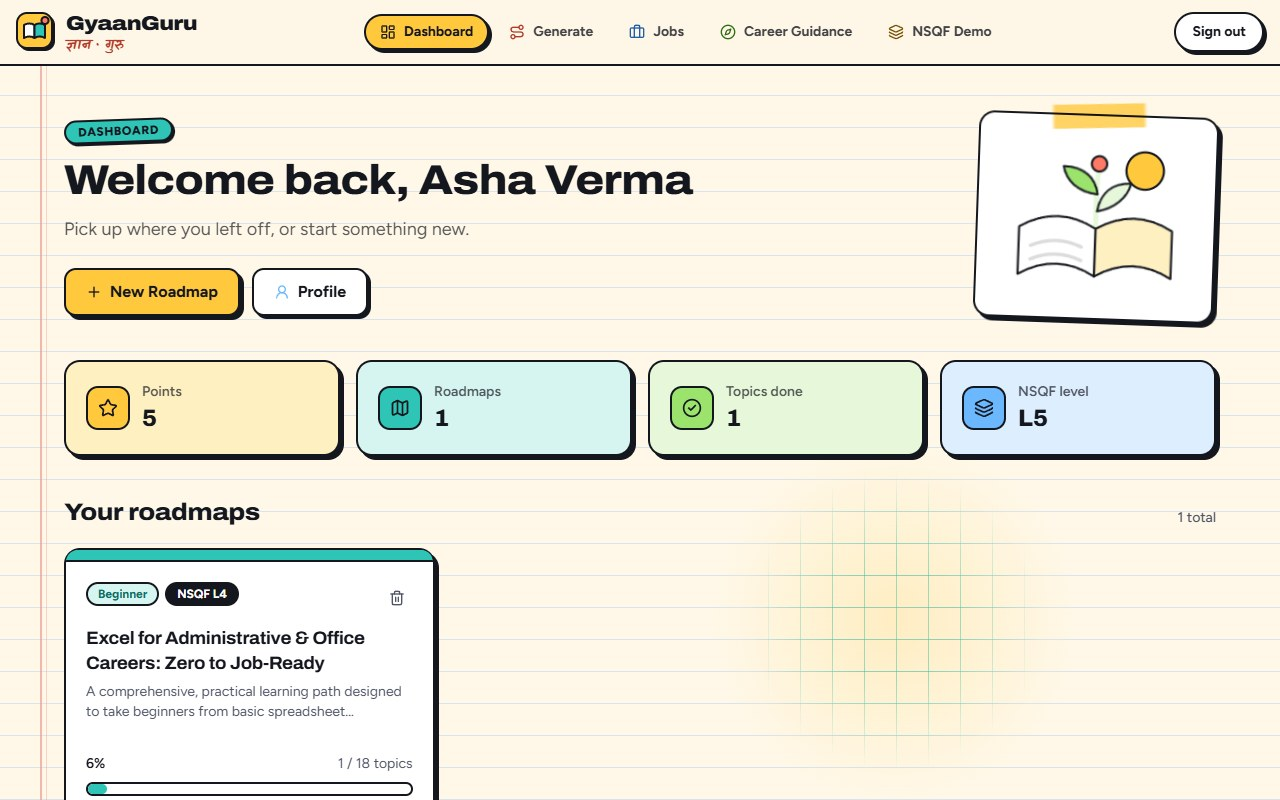
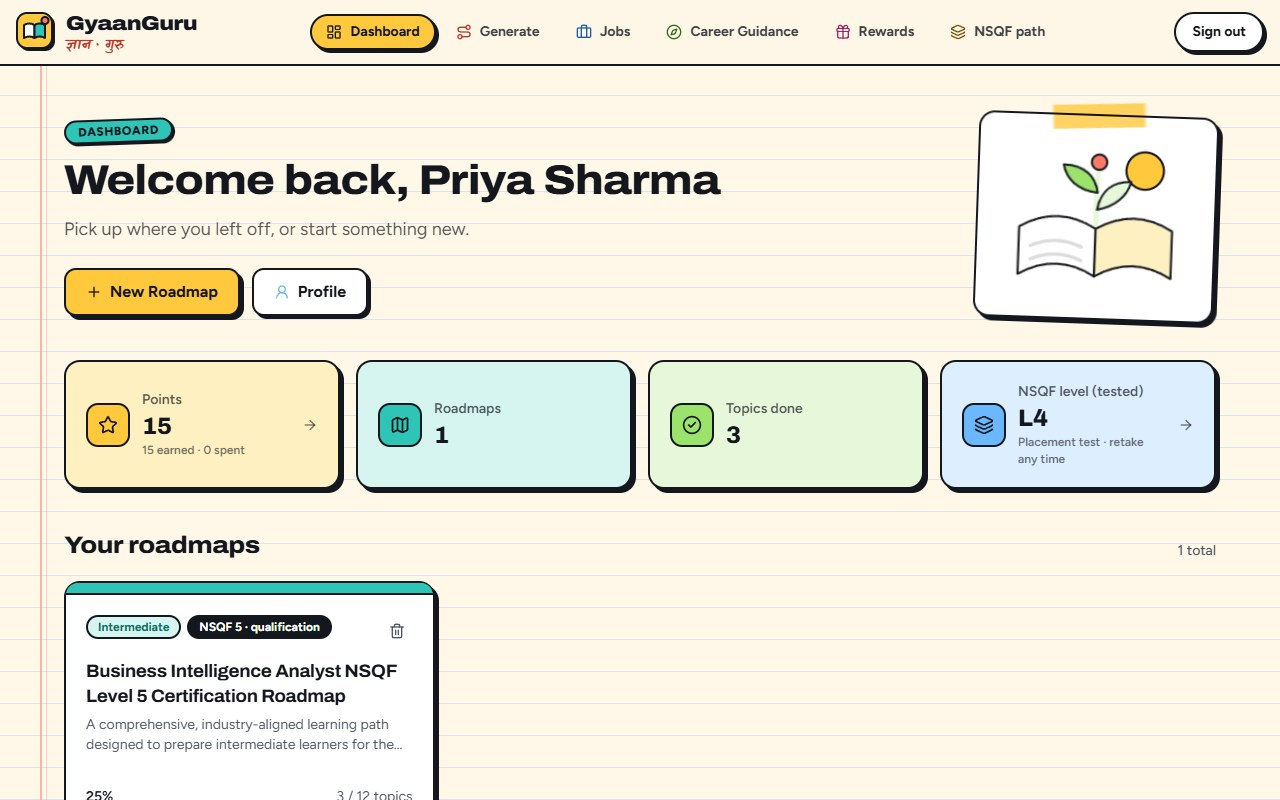
Add a catalogue refresh script, new screenshots and README section
- scripts/refresh-qualifications.mjs (npm run refresh:qualifications)
  re-reads every qualification in data/qualifications.json from its
  nqr.gov.in page and reports changed fields, units, anything expiring
  within 120 days and tracks left without a level. --write saves it;
  --add, --remove and --discover manage the list. Run against today's
  data it reproduces the file exactly.
- The placement routes return 412 with a "run schema.sql" message when
  placement_tests doesn't exist yet, instead of spending a Gemini call
  and failing with a 500.
- README: a "Real NSQF qualifications, honestly" section with the
  placement result and the official-certificate card, and every
  screenshot retaken (real Gemini text for a Business Intelligence
  Analyst roadmap). The banner now says "built on real NSQF
  qualifications".
- schema.sql comments no longer mention the removed reference data
  (comments only; no need to re-run it).

diff --git a/app/api/placement/submit/route.ts b/app/api/placement/submit/route.ts
@@ -2,7 +2,8 @@ import { NextResponse } from "next/server"
 import { z } from "zod"
 import { createClient } from "@/lib/supabase/server"
 import { ADMIN_MISSING_MESSAGE, createAdminClient } from "@/lib/supabase/admin"
-import { PLACEMENT_TIME_LIMIT_MINUTES, scorePlacement, type PlacementQuestion } from "@/lib/placement"
+import { PLACEMENT_SCHEMA_MESSAGE, PLACEMENT_TIME_LIMIT_MINUTES, scorePlacement, type PlacementQuestion } from "@/lib/placement"
+import { isSchemaMissing } from "@/lib/rewards"
 
 const SubmitSchema = z.object({
   testId: z.uuid(),
@@ -31,12 +32,15 @@ export async function POST(request: Request) {
       return NextResponse.json({ error: ADMIN_MISSING_MESSAGE, code: "QuizNotConfigured" }, { status: 503 })
     }
 
-    const { data: test } = await admin
+    const { data: test, error: readError } = await admin
       .from("placement_tests")
       .select("id, track, questions, created_at, submitted_at")
       .eq("id", testId)
       .eq("user_id", user.id)
       .maybeSingle()
+    if (isSchemaMissing(readError)) {
+      return NextResponse.json({ error: PLACEMENT_SCHEMA_MESSAGE, code: "SchemaNotMigrated" }, { status: 412 })
+    }
     if (!test) {
       return NextResponse.json({ error: "Placement test not found" }, { status: 404 })
     }

diff --git a/app/api/placement/start/route.ts b/app/api/placement/start/route.ts
@@ -13,6 +13,8 @@ import {
   type PublicPlacementQuestion,
 } from "@/lib/placement"
 import { TRACK_IDS } from "@/lib/qualifications"
+import { PLACEMENT_SCHEMA_MESSAGE } from "@/lib/placement"
+import { isSchemaMissing } from "@/lib/rewards"
 
 const StartSchema = z.object({ track: z.enum(TRACK_IDS) })
 
@@ -41,11 +43,15 @@ export async function POST(request: Request) {
       return NextResponse.json({ error: ADMIN_MISSING_MESSAGE, code: "QuizNotConfigured" }, { status: 503 })
     }
 
-    const { count } = await admin
+    const { count, error: countError } = await admin
       .from("placement_tests")
       .select("id", { count: "exact", head: true })
       .eq("user_id", user.id)
       .gte("created_at", startOfIndianDay())
+    // Check before spending a Gemini call: the table only exists once schema.sql has been run.
+    if (isSchemaMissing(countError)) {
+      return NextResponse.json({ error: PLACEMENT_SCHEMA_MESSAGE, code: "SchemaNotMigrated" }, { status: 412 })
+    }
     if ((count ?? 0) >= PLACEMENT_STARTS_PER_DAY) {
       return NextResponse.json(
         { error: `You've started ${PLACEMENT_STARTS_PER_DAY} placement tests today. Come back tomorrow for another go.` },

diff --git a/lib/placement.ts b/lib/placement.ts
@@ -12,6 +12,9 @@ export const PLACEMENT_STARTS_PER_DAY = 3
 
 export type PlacementBand = (typeof PLACEMENT_BANDS)[number]
 
+export const PLACEMENT_SCHEMA_MESSAGE =
+  "The placement test isn't set up in the database yet. Run scripts/schema.sql in the Supabase SQL editor, then reload."
+
 /** A stored question. The answer and explanation never leave the server before submitting. */
 export type PlacementQuestion = {
   band: PlacementBand

diff --git a/README.md b/README.md
@@ -1,5 +1,5 @@
 <p align="center">
-  <img src="docs/banner.svg" alt="GyaanGuru: personal learning roadmaps for India, mapped to NSQF levels" width="100%">
+  <img src="docs/banner.svg" alt="GyaanGuru: personal learning roadmaps for India, built on real NSQF qualifications" width="100%">
 </p>
 
 GyaanGuru turns "I want to learn X" into a plan you can follow week by week.
@@ -11,7 +11,7 @@ It's one Next.js app, with Supabase for accounts and data and Google Gemini for 
 <table>
   <tr>
     <td width="50%"><img src="docs/screenshots/home-hero.jpg" alt="Home page: 'Plan it. Learn it. Level up.' next to a notebook page showing a learner climbing NSQF steps L3 to L6"></td>
-    <td width="50%"><img src="docs/screenshots/dashboard.jpg" alt="Dashboard with points, roadmaps, topics done and NSQF level, plus a roadmap card at 6% progress"></td>
+    <td width="50%"><img src="docs/screenshots/dashboard.jpg" alt="Dashboard with points, roadmaps, topics done and a tested NSQF level of 4, plus a Business Intelligence Analyst roadmap tagged NSQF 5 qualification at 25%"></td>
   </tr>
   <tr>
     <td><sub>The home page. The ruled paper turns into graph paper under your cursor, and the stickers can be dragged around.</sub></td>
@@ -46,12 +46,33 @@ It's one Next.js app, with Supabase for accounts and data and Google Gemini for 
 
 <table>
   <tr>
-    <td width="50%"><img src="docs/screenshots/lesson.jpg" alt="A lesson from an Excel roadmap with the NSQF Level 4 banner, the course outline and the lesson content"></td>
-    <td width="50%"><img src="docs/screenshots/mentor.jpg" alt="AI Mentor replying with a three-day study plan that names the learner's next lesson"></td>
+    <td width="50%"><img src="docs/screenshots/lesson.jpg" alt="A lesson from a Business Intelligence Analyst roadmap: the Prepares for a real NSQF qualification banner with its NQR code, the outline with a unit code on each module, and the lesson content"></td>
+    <td width="50%"><img src="docs/screenshots/mentor.jpg" alt="AI Mentor replying with a week-long study plan that names the learner's roadmap and next lesson"></td>
   </tr>
   <tr>
-    <td><sub>A real roadmap Gemini wrote for "Excel for office jobs" (a free-topic roadmap, so its NSQF level is an estimate).</sub></td>
+    <td><sub>A real roadmap Gemini wrote for the Business Intelligence Analyst qualification (NSQF 5): one module per official unit, each tagged with its unit code.</sub></td>
     <td><sub>The AI Mentor uses your actual roadmap and next lesson to plan your week.</sub></td>
+  </tr>
+</table>
+
+## Real NSQF qualifications, honestly
+
+GyaanGuru never hands out NSQF levels. Every level on screen is one of three kinds, and it says which:
+
+- **Tested**: the placement test asks 12 questions, three at each of levels 3 to 6, built from the units of real qualifications in your track. The server marks it, so the answers never reach your browser. Your level is the highest one you pass along with every level below it. It's a practice test, not an official assessment.
+- **Real**: a roadmap built on a qualification carries that qualification's own level, copied from the [National Qualifications Register](https://www.nqr.gov.in/). The app ships 31 of them in four tracks (software, data and AI, cloud and security, digital marketing) in [`data/qualifications.json`](data/qualifications.json).
+- **Estimated**: anything untested, like a free-topic roadmap or a learner who hasn't taken the test, is labelled as an estimate.
+
+When you finish a roadmap built on a qualification, the page walks you to the real certificate: the entry routes, the qualification file, Skill India Digital Hub's courses and training centres, and the awarding body's assessment. Only the awarding body can certify you.
+
+<table>
+  <tr>
+    <td width="50%"><img src="docs/screenshots/placement.jpg" alt="Placement test result: tested at NSQF level 4 in Data and AI, with scores per level (3 of 3, 3 of 3, 1 of 3, 1 of 3), the official descriptor, and real level-5 qualifications to aim for next"></td>
+    <td width="50%"><img src="docs/screenshots/handoff.jpg" alt="Get the official certificate card for Business Intelligence Analyst: who awards it, the entry routes, the qualification file, Skill India links, the assessment, and an honest hours comparison"></td>
+  </tr>
+  <tr>
+    <td><sub>A placement result. Each level's three questions come from real qualification units.</sub></td>
+    <td><sub>The last section of a qualification roadmap: how to get the official certificate.</sub></td>
   </tr>
 </table>
 
@@ -181,11 +202,11 @@ The rewards page has three perks that do something: a **Streak Freeze** that cov
 <table>
   <tr>
     <td width="58%"><img src="docs/screenshots/rewards.jpg" alt="Rewards page: balance, earned, spent and roadmaps-finished tiles, then coupon-style cards for Streak Freeze, Completion Certificate and Sticker Pack"></td>
-    <td width="42%"><img src="docs/screenshots/certificate.jpg" alt="A printable completion certificate for the roadmap 'Python for Data Analysis', with NSQF level, lessons, study hours and a rubber stamp"></td>
+    <td width="42%"><img src="docs/screenshots/certificate.jpg" alt="A printable GyaanGuru completion certificate for a Business Intelligence Analyst roadmap: prepares for an NSQF 5 qualification, lessons, study hours, a rubber stamp, and a note that it is not an NSQF qualification"></td>
   </tr>
   <tr>
     <td><sub>The rewards page. Perks unlock as soon as you redeem them.</sub></td>
-    <td><sub>A completion certificate, ready to print or save as PDF.</sub></td>
+    <td><sub>A completion certificate, ready to print or save as PDF. It names the real qualification and says it isn't one.</sub></td>
   </tr>
 </table>
 
@@ -249,6 +270,7 @@ The rewards page has three perks that do something: a **Streak Freeze** that cov
 | `npm run build` / `npm run start` | Production build, then serve it. The build fails on type errors. |
 | `npm run typecheck` | `tsc --noEmit` |
 | `npm run lint` | ESLint |
+| `npm run refresh:qualifications` | Re-read the NSQF qualification catalogue from nqr.gov.in (dry run; `-- --write` saves) |
 
 ## Where things live
 
@@ -262,6 +284,9 @@ app/
 components/
   roadmap-visualization.tsx   the lesson view: outline, notes, quiz, instructor, videos
   roadmap-verify.tsx          the bonus checklist: quiz status and the recap
+  placement-client.tsx        the NSQF placement test
+  qualification-picker.tsx    "target a real qualification" on the generate page
+  certification-handoff.tsx   how to get the official certificate
   mentor-client.tsx           AI Mentor
   rewards-client.tsx          points, perks, badges and points history
   illustrations.tsx  doodles.tsx  page-header.tsx   the notebook look
@@ -274,6 +299,7 @@ lib/
   placement.ts    placement test rules and marking
   nsqf-path.ts  achievements.ts  rewards.ts  quiz.ts
 scripts/schema.sql   the whole database, idempotent
+scripts/refresh-qualifications.mjs   re-reads the qualification catalogue from nqr.gov.in
 data/qualifications.json   real NSQF qualifications copied from nqr.gov.in
 ```
 
@@ -282,7 +308,7 @@ data/qualifications.json   real NSQF qualifications copied from nqr.gov.in
 - **Gemini limits.** A free key goes a long way for one person, but heavy use, or running tests against it, can use up a model's daily allowance. The app falls back to other models and tells you when they're all busy. Turning on billing for the key raises the limits.
 - **Emails.** Supabase's built-in email sender only delivers to people on your Supabase team, a few per hour. That's enough for testing password resets on your own account. To email anyone else, add your own SMTP server under **Authentication → Emails**.
 - **NSQF levels.** The framework (revised in 2023) runs from 1 to 8, with half levels such as 4.5. GyaanGuru works with levels 3–6. It never awards a level: a learner's level is either *tested* (the placement test, a practice test) or *estimated*, and the screens say which. Only an awarding body can certify an NSQF qualification.
-- **Qualification data** is a snapshot of the National Qualifications Register (the date is in `data/qualifications.json`). Qualifications expire and get new versions, so it needs refreshing from nqr.gov.in now and then; anything past its approval date is hidden automatically.
+- **Qualification data** is a snapshot of the National Qualifications Register (the date is in `data/qualifications.json`). Qualifications expire and get new versions, so it needs refreshing now and then: `npm run refresh:qualifications` re-reads every entry from nqr.gov.in and reports what changed or is about to expire (add `-- --write` to save). Anything past its approval date is hidden automatically.
 - **Grounding, not search.** The career chat and mentor use your profile, your progress, the official level descriptors and the qualification catalogue. They don't search the web or any external documents.
 
 ## The look

diff --git a/CLAUDE.md b/CLAUDE.md
@@ -19,6 +19,7 @@ npm run build        # next build (fails on type errors)
 npm run start        # next start
 npm run typecheck    # tsc --noEmit
 npm run lint         # eslint . (flat config in eslint.config.mjs; one file: npx eslint <path>)
+npm run refresh:qualifications   # re-read data/qualifications.json from nqr.gov.in (dry run; see "NSQF logic")
 ```
 
 - **No automated test suite.** Verify with `typecheck`, `lint`, `build` and a run of the app. See "Local end-to-end testing" below.
@@ -89,7 +90,7 @@ npm run lint         # eslint . (flat config in eslint.config.mjs; one file: npx
   - Rows are keyed by array position, not by topic `id`. Reordering a roadmap's modules or topics would orphan progress rows.
   - Un-completing a topic deletes its row.
   - Users can only read it. Rows are written by `complete_topic()` / `uncomplete_topic()` (which check that the lesson exists in the roadmap's `content`) and by `award_lesson_quiz()` when a quiz is passed.
-- `/api/onboarding` returns `412 SchemaNotMigrated` when the onboarding columns are missing. `/api/progress` and `/api/rewards` do the same when the points tables or functions are missing.
+- `/api/onboarding` returns `412 SchemaNotMigrated` when the onboarding columns are missing. `/api/progress` and `/api/rewards` do the same when the points tables or functions are missing, and the placement routes when `placement_tests` is missing (checked before any Gemini call).
 
 ### Points and rewards
 - **Points are for proof of learning, not ticks.** Ticking a lesson only tracks progress and pays nothing.
@@ -176,7 +177,8 @@ The rule: **GyaanGuru never claims to award an NSQF level.** It shows a level th
   - 31 real qualifications in 4 tracks (`software`, `data-ai`, `infra`, `marketing`), copied from their National Qualifications Register pages on `checkedOn`. Each has its NQR code, exact level (e.g. 4.5), awarding and certifying body, hours, approval dates, eligibility rows, units (NOS) and the qualification-file PDF.
   - Units carry `mandatory` and `core`; `core: false` marks employability skills, OJT, introductions and generic workplace-safety units, which roadmaps don't teach.
   - **Band:** `levelBand(level)` = the level rounded up (4.5 → 5), matching the official table's grouping.
-  - **Expiry:** `isCurrent(q, today)` hides anything past `validTill`. The Media & Entertainment (marketing) qualifications expire in Feb 2027, so refresh the catalogue before then: re-read each NQR page, update the entries and `checkedOn`, never type values from memory.
+  - **Expiry:** `isCurrent(q, today)` hides anything past `validTill`. Five of the marketing track's qualifications (Media & Entertainment) expire on 23 Feb 2027, which leaves that track with nothing at levels 4–6.
+  - **Refreshing:** `scripts/refresh-qualifications.mjs` (`npm run refresh:qualifications`) re-reads every entry from its NQR page and reports changes, anything expiring within 120 days, and tracks with an empty level. `-- --write` rewrites the file and `checkedOn`; `--add <page id>:<track>` and `--remove nqr-<id>` edit the list; `--discover` lists current IT-ITeS and Media qualifications at levels 2.5–6 that aren't in the file. Never type catalogue values by hand.
   - Helpers: `ladder(track)`, `recommend(track, band)`, `guessTrack(text)` (whole-word keyword match), `suggestQualifications`, `rankQualifications`, `examplesByBand`, `coreUnits`, `formatLevel`, and the NQR / Skill India links.
 - **Placement test** (`/placement` → `/api/placement/start` → `/api/placement/submit`; rules and marking in `lib/placement.ts`, generation in `lib/quiz.ts`):
   - 3 questions at each band 3–6 of one track (12 in all), each built on a real unit of a qualification at that band and pitched at the official descriptor. The prompt contains only catalogue data. zod rejects output without exactly 3 valid-unit questions per band (502). Options are shuffled on the server.
